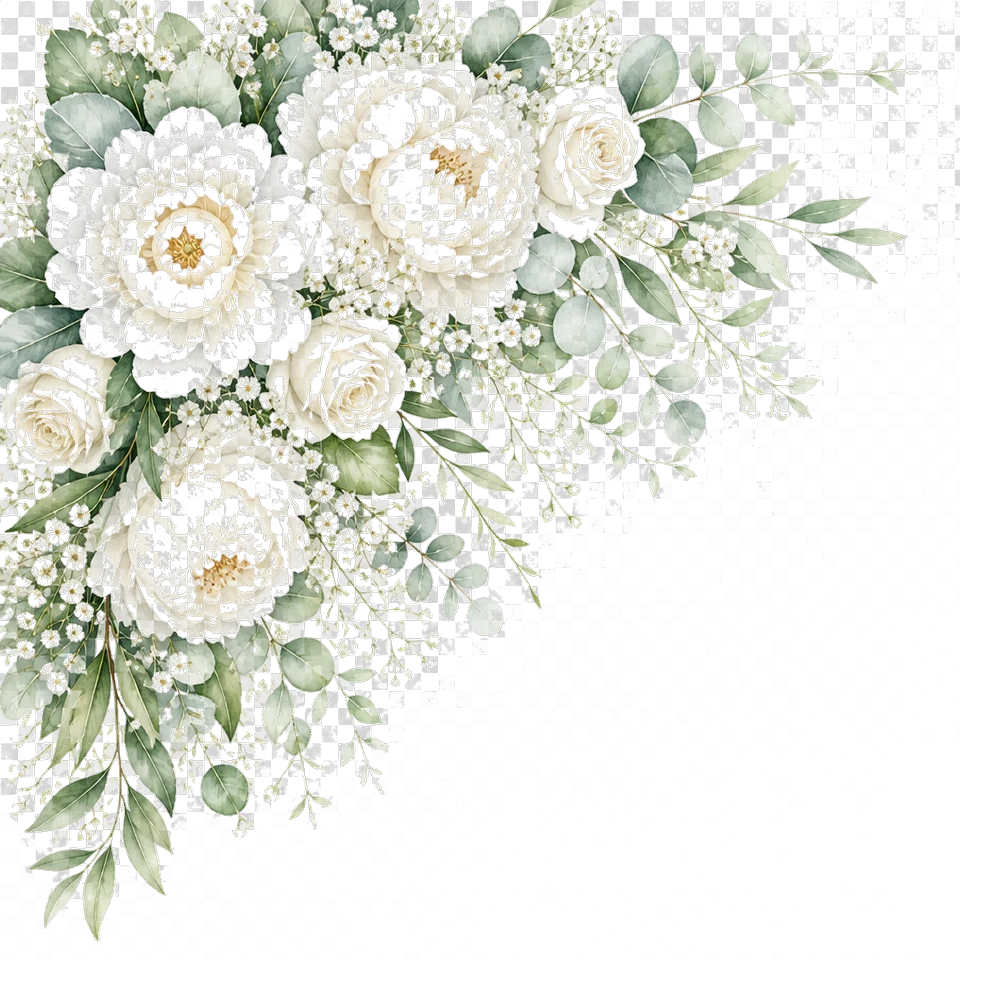
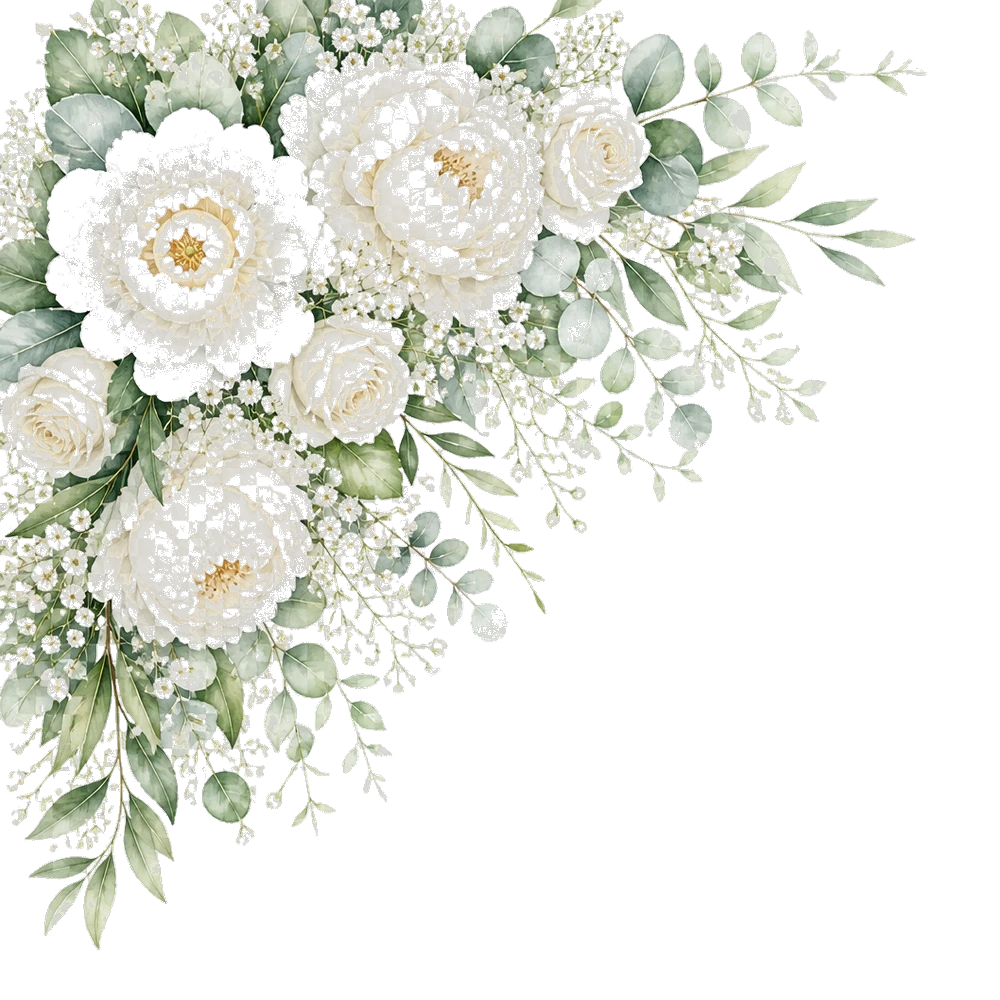
Gate folded animation + fiori

Changed region(s): [[0.0, 0.0, 0.961, 0.961], [0.93, 0.155, 0.961, 0.186]]

diff --git a/index.html b/index.html
@@ -31,7 +31,7 @@
   <noscript>
     <link href="https://fonts.googleapis.com/css2?family=Cormorant+Garamond:ital,wght@0,400;0,500;0,600;1,400;1,500&family=Italianno&family=Outfit:wght@300;400;500&display=swap" rel="stylesheet" />
   </noscript>
-  <link rel="stylesheet" href="styles.css?v=50" />
+  <link rel="stylesheet" href="styles.css?v=51" />
 </head>
 <body>
   <!-- Envelope overlay -->
@@ -83,7 +83,7 @@
             <span class="envelope-gate__face">
               <img
                 class="envelope-gate__florals envelope-gate__florals--tl"
-                src="images/gate-florals-tl.webp?v=50"
+                src="images/gate-florals-tl.webp?v=51"
                 alt=""
                 width="1000"
                 height="1000"
@@ -96,7 +96,7 @@
             <span class="envelope-gate__face">
               <img
                 class="envelope-gate__florals envelope-gate__florals--br"
-                src="images/gate-florals-br.webp?v=50"
+                src="images/gate-florals-br.webp?v=51"
                 alt=""
                 width="1000"
                 height="1000"
@@ -362,6 +362,6 @@
     <span class="music-toggle__label" id="musicToggleLabel">In pausa</span>
   </button>
 
-  <script src="script.js?v=50"></script>
+  <script src="script.js?v=51"></script>
 </body>
 </html>
